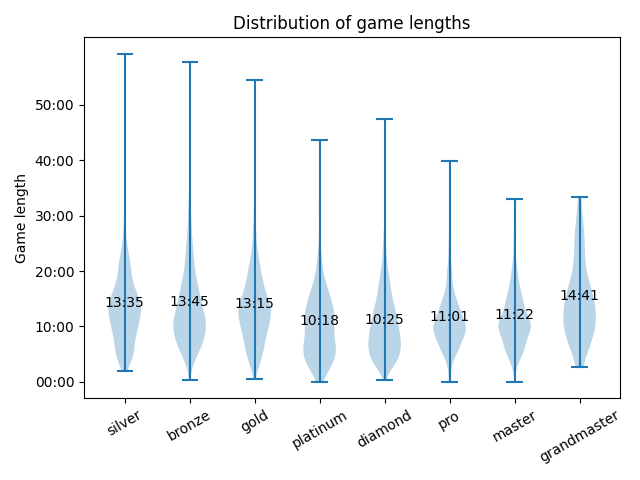
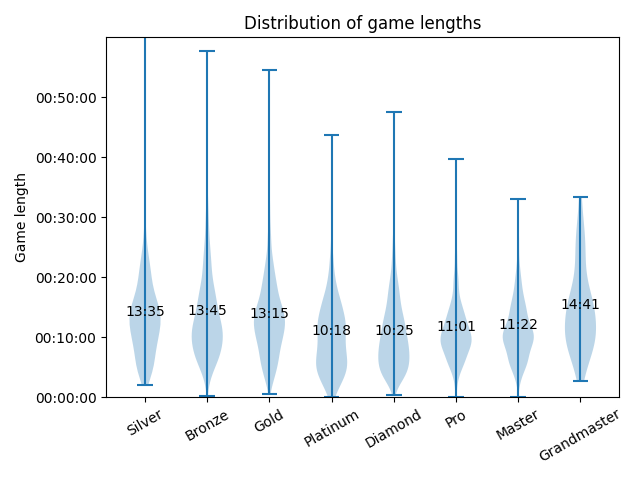
tweak

diff --git a/plot_game_lengths.py b/plot_game_lengths.py
@@ -21,8 +21,9 @@ for i, league in enumerate(averages):
     plt.text(i + 1, averages[league], avg, horizontalalignment='center')
 
 plt.title('Distribution of game lengths')
-plt.xticks(list(range(1, 9)), list(data.keys()), rotation=30)
-plt.yticks(list(range(0, 3600, 600)), [time.strftime('%M:%S', time.gmtime(i)) for i in list(range(0, 3600, 600))])
+plt.ylim(0,3600)
+plt.xticks(list(range(1, 9)), [i.capitalize() for i in list(data.keys())], rotation=30)
+plt.yticks(list(range(0, 3600, 600)), [time.strftime('%H:%M:%S', time.gmtime(i)) for i in list(range(0, 3600, 600))])
 plt.ylabel('Game length')
 
 # plt.show()
